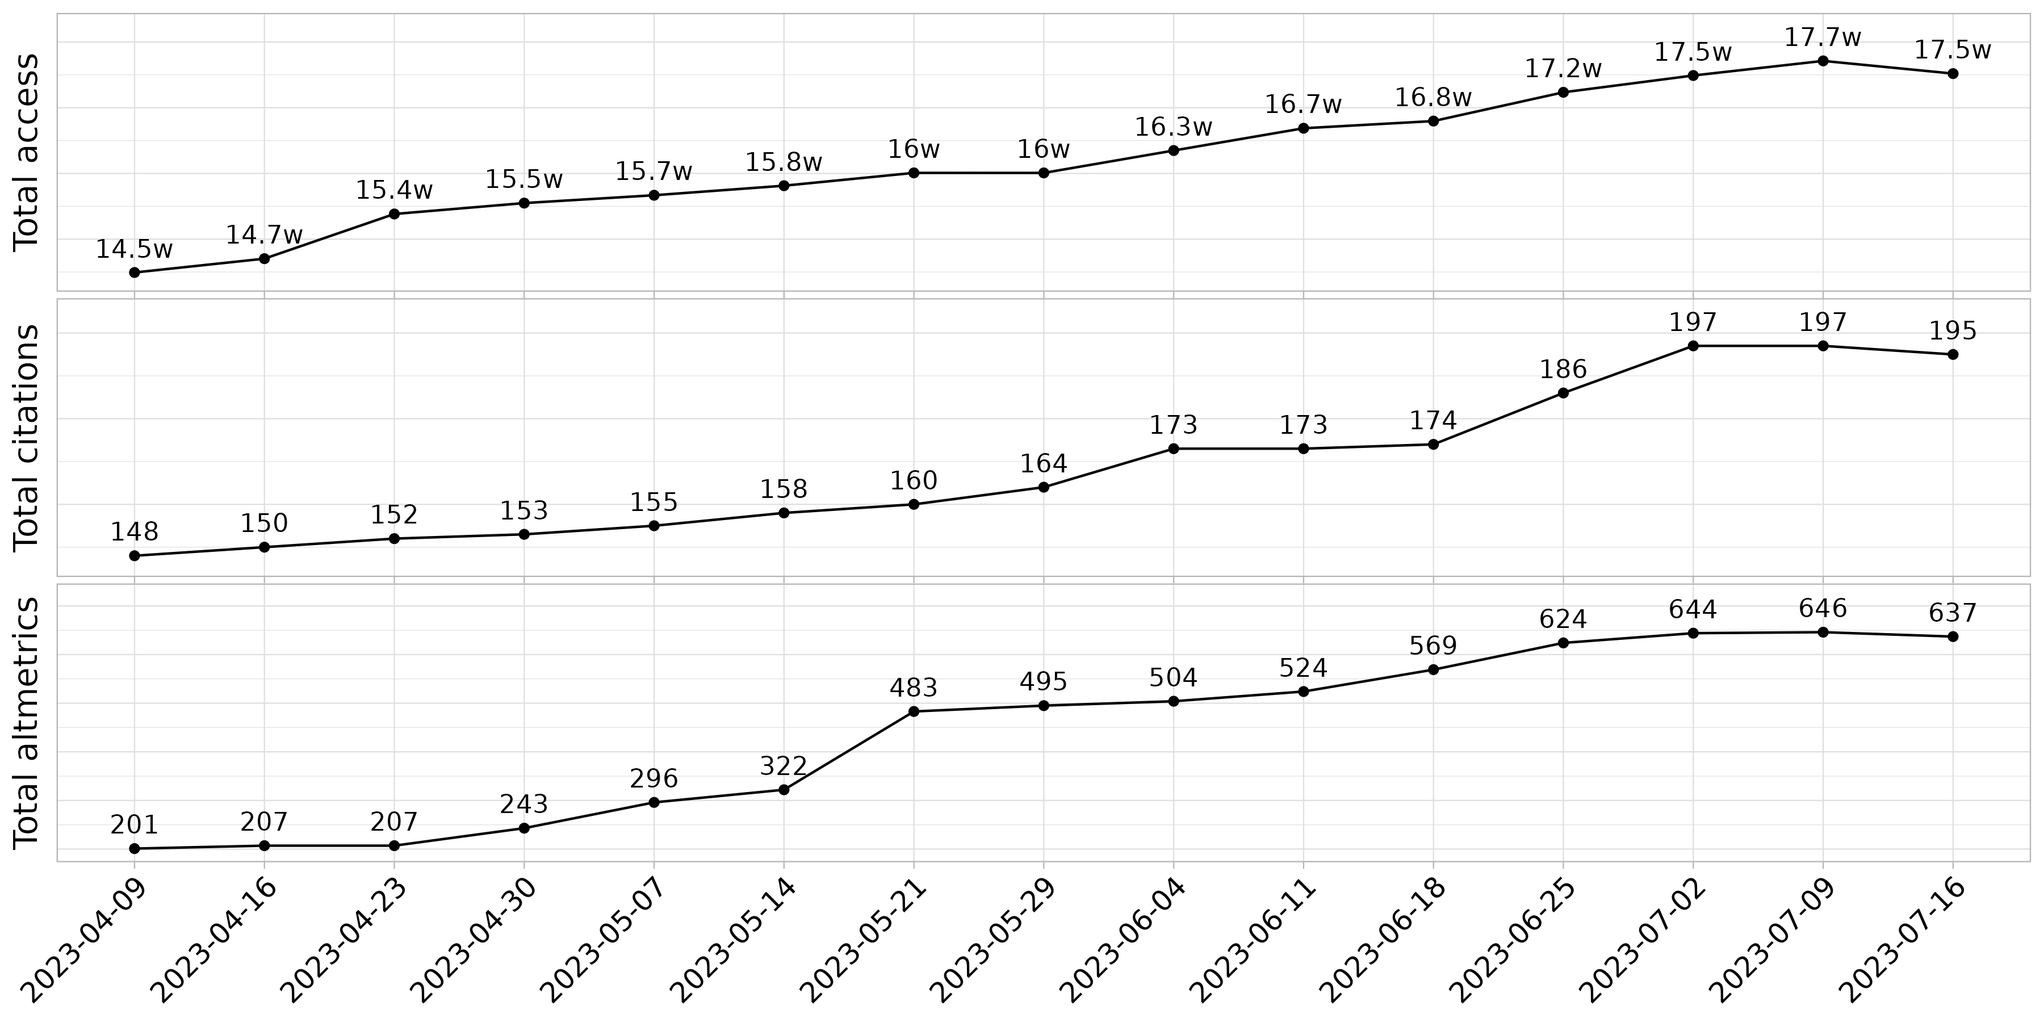
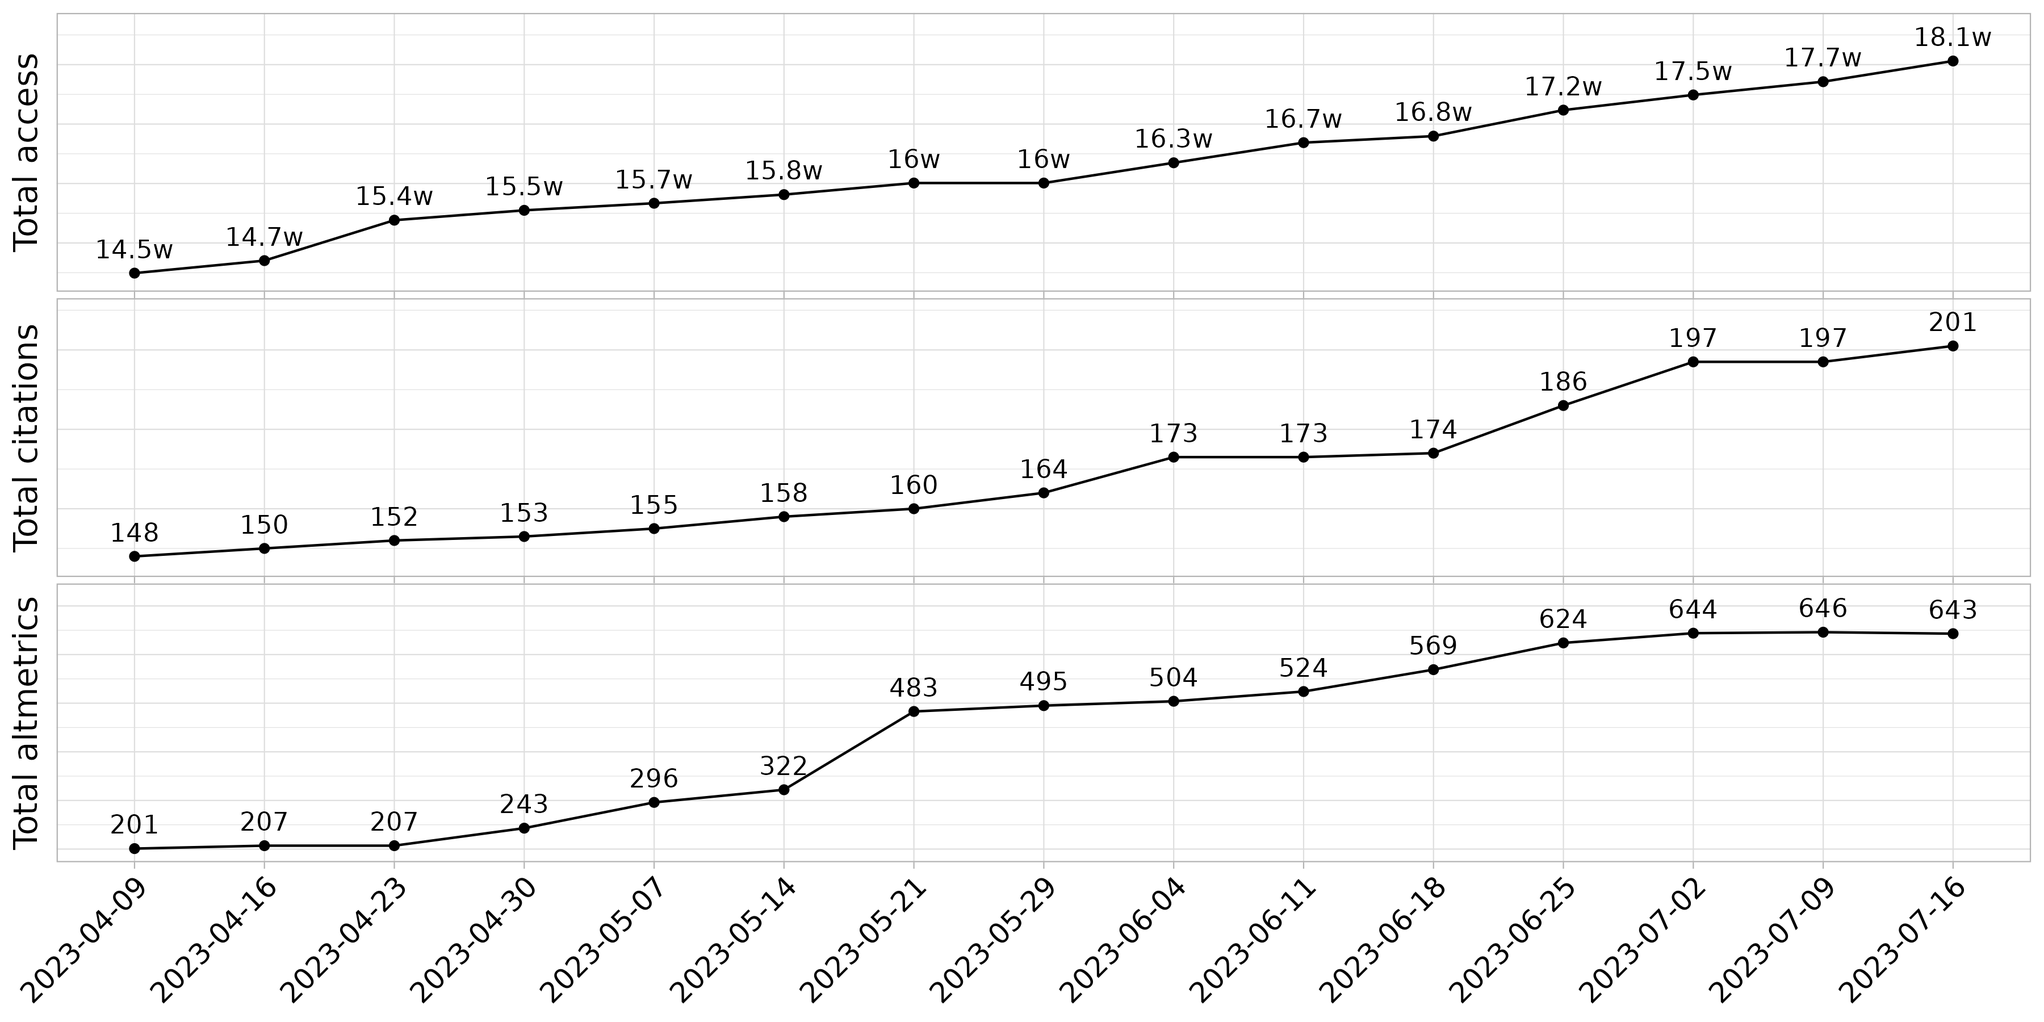
20230716

diff --git a/weekly_online_paper_metrices/README.md b/weekly_online_paper_metrices/README.md
@@ -16,7 +16,7 @@
    <td style="text-align:center;"> <a href="http://link.springer.com/article/10.1007/s43657-022-00048-z" style="     " >A Comprehensive Review of High ...</a> </td>
    <td style="text-align:center;"> Review </td>
    <td style="text-align:center;"> 2022-04-04 </td>
-   <td style="text-align:center;"> 4339 </td>
+   <td style="text-align:center;"> 4346 </td>
    <td style="text-align:center;"> 18 </td>
    <td style="text-align:center;"> 11 </td>
    <td style="text-align:center;"> 2 </td>
@@ -36,7 +36,7 @@
    <td style="text-align:center;"> <a href="http://link.springer.com/article/10.1007/s43657-022-00058-x" style="     " >Clinical Profiles at the Time ...</a> </td>
    <td style="text-align:center;"> Article </td>
    <td style="text-align:center;"> 2022-06-07 </td>
-   <td style="text-align:center;"> 1922 </td>
+   <td style="text-align:center;"> 1930 </td>
    <td style="text-align:center;"> 11 </td>
    <td style="text-align:center;"> 3 </td>
    <td style="text-align:center;"> 2 </td>
@@ -86,11 +86,21 @@
    <td style="text-align:center;"> <a href="http://link.springer.com/article/10.1007/s43657-021-00020-3" style="     " >Molecular Phenomic Approaches to Deconvolving ...</a> </td>
    <td style="text-align:center;"> Review </td>
    <td style="text-align:center;"> 2021-07-22 </td>
-   <td style="text-align:center;"> 3985 </td>
+   <td style="text-align:center;"> 3989 </td>
    <td style="text-align:center;"> 6 </td>
    <td style="text-align:center;"> 38 </td>
    <td style="text-align:center;"> 1 </td>
    <td style="text-align:center;"> 4 </td>
+  </tr>
+  <tr>
+   <td style="text-align:center;"> <a href="http://link.springer.com/article/10.1007/s43657-020-00009-4" style="     " >Welcome to the Phenomics Journal ...</a> </td>
+   <td style="text-align:center;"> Editorial </td>
+   <td style="text-align:center;"> 2021-01-11 </td>
+   <td style="text-align:center;"> 5158 </td>
+   <td style="text-align:center;"> 6 </td>
+   <td style="text-align:center;"> 7 </td>
+   <td style="text-align:center;"> 1 </td>
+   <td style="text-align:center;"> 1 </td>
   </tr>
   <tr>
    <td style="text-align:center;"> <a href="http://link.springer.com/article/10.1007/s43657-021-00036-9" style="     " >Recent Advances in Understanding of ...</a> </td>
@@ -106,7 +116,7 @@
    <td style="text-align:center;"> <a href="http://link.springer.com/article/10.1007/s43657-021-00037-8" style="     " >Why Do We Care More ...</a> </td>
    <td style="text-align:center;"> Commentary </td>
    <td style="text-align:center;"> 2022-01-28 </td>
-   <td style="text-align:center;"> 3090 </td>
+   <td style="text-align:center;"> 3097 </td>
    <td style="text-align:center;"> 5 </td>
    <td style="text-align:center;"> 24 </td>
    <td style="text-align:center;"> 2 </td>
@@ -116,7 +126,7 @@
    <td style="text-align:center;"> <a href="http://link.springer.com/article/10.1007/s43657-021-00032-z" style="     " >Recent Progresses in Electrochemical DNA ...</a> </td>
    <td style="text-align:center;"> Review </td>
    <td style="text-align:center;"> 2022-01-21 </td>
-   <td style="text-align:center;"> 2059 </td>
+   <td style="text-align:center;"> 2060 </td>
    <td style="text-align:center;"> 5 </td>
    <td style="text-align:center;"> 2 </td>
    <td style="text-align:center;"> 2 </td>
@@ -126,7 +136,7 @@
    <td style="text-align:center;"> <a href="http://link.springer.com/article/10.1007/s43657-021-00014-1" style="     " >Genetic Architecture of Childhood Kidney ...</a> </td>
    <td style="text-align:center;"> Article </td>
    <td style="text-align:center;"> 2021-07-15 </td>
-   <td style="text-align:center;"> 2726 </td>
+   <td style="text-align:center;"> 2730 </td>
    <td style="text-align:center;"> 5 </td>
    <td style="text-align:center;"> 1 </td>
    <td style="text-align:center;"> 1 </td>
@@ -166,7 +176,7 @@
    <td style="text-align:center;"> <a href="http://link.springer.com/article/10.1007/s43657-023-00102-4" style="     " >Overview of a Sleep Monitoring ...</a> </td>
    <td style="text-align:center;"> Protocol </td>
    <td style="text-align:center;"> 2023-05-06 </td>
-   <td style="text-align:center;"> 661 </td>
+   <td style="text-align:center;"> 669 </td>
    <td style="text-align:center;"> 3 </td>
    <td style="text-align:center;"> 3 </td>
    <td style="text-align:center;"> NA </td>
@@ -176,7 +186,7 @@
    <td style="text-align:center;"> <a href="http://link.springer.com/article/10.1007/s43657-022-00066-x" style="     " >Human Genetic Variants Associated with ...</a> </td>
    <td style="text-align:center;"> Article </td>
    <td style="text-align:center;"> 2022-08-13 </td>
-   <td style="text-align:center;"> 1911 </td>
+   <td style="text-align:center;"> 1915 </td>
    <td style="text-align:center;"> 3 </td>
    <td style="text-align:center;"> 3 </td>
    <td style="text-align:center;"> 2 </td>
@@ -196,7 +206,7 @@
    <td style="text-align:center;"> <a href="http://link.springer.com/article/10.1007/s43657-021-00043-w" style="     " >Emerging Regulatory Mechanisms of N6-Methyladenosine ...</a> </td>
    <td style="text-align:center;"> Review </td>
    <td style="text-align:center;"> 2022-05-25 </td>
-   <td style="text-align:center;"> 1719 </td>
+   <td style="text-align:center;"> 1721 </td>
    <td style="text-align:center;"> 3 </td>
    <td style="text-align:center;"> 1 </td>
    <td style="text-align:center;"> 3 </td>
@@ -206,7 +216,7 @@
    <td style="text-align:center;"> <a href="http://link.springer.com/article/10.1007/s43657-022-00054-1" style="     " >Biomarkers and Disease Trajectories Influencing ...</a> </td>
    <td style="text-align:center;"> Article </td>
    <td style="text-align:center;"> 2022-05-12 </td>
-   <td style="text-align:center;"> 2768 </td>
+   <td style="text-align:center;"> 2776 </td>
    <td style="text-align:center;"> 3 </td>
    <td style="text-align:center;"> 2 </td>
    <td style="text-align:center;"> 2 </td>
@@ -216,7 +226,7 @@
    <td style="text-align:center;"> <a href="http://link.springer.com/article/10.1007/s43657-021-00041-y" style="     " >Optical Imaging of Epigenetic Modifications ...</a> </td>
    <td style="text-align:center;"> Review </td>
    <td style="text-align:center;"> 2022-02-07 </td>
-   <td style="text-align:center;"> 2031 </td>
+   <td style="text-align:center;"> 2034 </td>
    <td style="text-align:center;"> 3 </td>
    <td style="text-align:center;"> 6 </td>
    <td style="text-align:center;"> 2 </td>
@@ -246,7 +256,7 @@
    <td style="text-align:center;"> <a href="http://link.springer.com/article/10.1007/s43657-021-00016-z" style="     " >Molecular Determinants of Antibiotic Resistance in ...</a> </td>
    <td style="text-align:center;"> Review </td>
    <td style="text-align:center;"> 2021-06-17 </td>
-   <td style="text-align:center;"> 3518 </td>
+   <td style="text-align:center;"> 3523 </td>
    <td style="text-align:center;"> 3 </td>
    <td style="text-align:center;"> 3 </td>
    <td style="text-align:center;"> 1 </td>
@@ -266,7 +276,7 @@
    <td style="text-align:center;"> <a href="http://link.springer.com/article/10.1007/s43657-022-00089-4" style="     " >Phenomic Studies on Diseases: Potential ...</a> </td>
    <td style="text-align:center;"> Review </td>
    <td style="text-align:center;"> 2023-01-05 </td>
-   <td style="text-align:center;"> 1690 </td>
+   <td style="text-align:center;"> 1709 </td>
    <td style="text-align:center;"> 2 </td>
    <td style="text-align:center;"> 3 </td>
    <td style="text-align:center;"> 3 </td>
@@ -396,7 +406,7 @@
    <td style="text-align:center;"> <a href="http://link.springer.com/article/10.1007/s43657-021-00018-x" style="     " >Recommendation for Cardiac Magnetic Resonance ...</a> </td>
    <td style="text-align:center;"> Review </td>
    <td style="text-align:center;"> 2021-07-28 </td>
-   <td style="text-align:center;"> 3706 </td>
+   <td style="text-align:center;"> 3718 </td>
    <td style="text-align:center;"> 2 </td>
    <td style="text-align:center;"> 1 </td>
    <td style="text-align:center;"> 1 </td>
@@ -446,7 +456,7 @@
    <td style="text-align:center;"> <a href="http://link.springer.com/article/10.1007/s43657-022-00065-y" style="     " >Report on the 3rd Board ...</a> </td>
    <td style="text-align:center;"> Meeting Report </td>
    <td style="text-align:center;"> 2022-06-22 </td>
-   <td style="text-align:center;"> 2451 </td>
+   <td style="text-align:center;"> 2460 </td>
    <td style="text-align:center;"> 1 </td>
    <td style="text-align:center;"> 3 </td>
    <td style="text-align:center;"> 3 </td>
@@ -466,7 +476,7 @@
    <td style="text-align:center;"> <a href="http://link.springer.com/article/10.1007/s43657-022-00062-1" style="     " >Identification of Germline Mutations in ...</a> </td>
    <td style="text-align:center;"> Article </td>
    <td style="text-align:center;"> 2022-06-11 </td>
-   <td style="text-align:center;"> 1531 </td>
+   <td style="text-align:center;"> 1532 </td>
    <td style="text-align:center;"> 1 </td>
    <td style="text-align:center;"> 4 </td>
    <td style="text-align:center;"> 3 </td>
@@ -496,7 +506,7 @@
    <td style="text-align:center;"> <a href="http://link.springer.com/article/10.1007/s43657-022-00052-3" style="     " >Causal Effect of Genetically Determined ...</a> </td>
    <td style="text-align:center;"> Article </td>
    <td style="text-align:center;"> 2022-05-07 </td>
-   <td style="text-align:center;"> 1680 </td>
+   <td style="text-align:center;"> 1682 </td>
    <td style="text-align:center;"> 1 </td>
    <td style="text-align:center;"> 2 </td>
    <td style="text-align:center;"> 2 </td>
@@ -506,7 +516,7 @@
    <td style="text-align:center;"> <a href="http://link.springer.com/article/10.1007/s43657-021-00031-0" style="     " >Mapping Cell Phenomics with Multiparametric ...</a> </td>
    <td style="text-align:center;"> Review </td>
    <td style="text-align:center;"> 2022-01-09 </td>
-   <td style="text-align:center;"> 3464 </td>
+   <td style="text-align:center;"> 3468 </td>
    <td style="text-align:center;"> 1 </td>
    <td style="text-align:center;"> 2 </td>
    <td style="text-align:center;"> 2 </td>
@@ -516,7 +526,7 @@
    <td style="text-align:center;"> <a href="http://link.springer.com/article/10.1007/s43657-021-00030-1" style="     " >Beyond Mendelian Inheritance: Genetic Buffering ...</a> </td>
    <td style="text-align:center;"> Review </td>
    <td style="text-align:center;"> 2021-12-27 </td>
-   <td style="text-align:center;"> 3202 </td>
+   <td style="text-align:center;"> 3208 </td>
    <td style="text-align:center;"> 1 </td>
    <td style="text-align:center;"> 1 </td>
    <td style="text-align:center;"> 2 </td>
@@ -536,7 +546,7 @@
    <td style="text-align:center;"> <a href="http://link.springer.com/article/10.1007/s43657-021-00017-y" style="     " >Origin and Spread of the ...</a> </td>
    <td style="text-align:center;"> Review </td>
    <td style="text-align:center;"> 2021-09-20 </td>
-   <td style="text-align:center;"> 2866 </td>
+   <td style="text-align:center;"> 2871 </td>
    <td style="text-align:center;"> 1 </td>
    <td style="text-align:center;"> 3 </td>
    <td style="text-align:center;"> 1 </td>
@@ -596,7 +606,7 @@
    <td style="text-align:center;"> <a href="http://link.springer.com/article/10.1007/s43657-023-00103-3" style="     " >Integrative Identification by Hi-C Revealed ...</a> </td>
    <td style="text-align:center;"> Article </td>
    <td style="text-align:center;"> 2023-06-15 </td>
-   <td style="text-align:center;"> 57 </td>
+   <td style="text-align:center;"> 59 </td>
    <td style="text-align:center;"> 0 </td>
    <td style="text-align:center;"> 5 </td>
    <td style="text-align:center;"> NA </td>
@@ -606,7 +616,7 @@
    <td style="text-align:center;"> <a href="http://link.springer.com/article/10.1007/s43657-023-00101-5" style="     " >Mycobacteriaceae Phenome Atlas (MPA): A ...</a> </td>
    <td style="text-align:center;"> Article </td>
    <td style="text-align:center;"> 2023-06-13 </td>
-   <td style="text-align:center;"> 434 </td>
+   <td style="text-align:center;"> 448 </td>
    <td style="text-align:center;"> 0 </td>
    <td style="text-align:center;"> 5 </td>
    <td style="text-align:center;"> NA </td>
@@ -616,7 +626,7 @@
    <td style="text-align:center;"> <a href="http://link.springer.com/article/10.1007/s43657-023-00109-x" style="     " >De Novo Dissecting the Three-Dimensional ...</a> </td>
    <td style="text-align:center;"> Article </td>
    <td style="text-align:center;"> 2023-06-08 </td>
-   <td style="text-align:center;"> 337 </td>
+   <td style="text-align:center;"> 345 </td>
    <td style="text-align:center;"> 0 </td>
    <td style="text-align:center;"> 1 </td>
    <td style="text-align:center;"> NA </td>
@@ -626,7 +636,7 @@
    <td style="text-align:center;"> <a href="http://link.springer.com/article/10.1007/s43657-023-00105-1" style="     " >Quantitative Assessment of Ultraviolet-Induced Erythema ...</a> </td>
    <td style="text-align:center;"> Article </td>
    <td style="text-align:center;"> 2023-06-05 </td>
-   <td style="text-align:center;"> 345 </td>
+   <td style="text-align:center;"> 349 </td>
    <td style="text-align:center;"> 0 </td>
    <td style="text-align:center;"> 2 </td>
    <td style="text-align:center;"> NA </td>
@@ -656,7 +666,7 @@
    <td style="text-align:center;"> <a href="http://link.springer.com/article/10.1007/s43657-022-00086-7" style="     " >RNA-Sequencing Reveals Gene Expression and ...</a> </td>
    <td style="text-align:center;"> Article </td>
    <td style="text-align:center;"> 2023-04-08 </td>
-   <td style="text-align:center;"> 260 </td>
+   <td style="text-align:center;"> 262 </td>
    <td style="text-align:center;"> 0 </td>
    <td style="text-align:center;"> 66 </td>
    <td style="text-align:center;"> 3 </td>
@@ -666,7 +676,7 @@
    <td style="text-align:center;"> <a href="http://link.springer.com/article/10.1007/s43657-023-00098-x" style="     " >Genetic Phenotypes of Alzheimer’s Disease: ...</a> </td>
    <td style="text-align:center;"> Review </td>
    <td style="text-align:center;"> 2023-04-03 </td>
-   <td style="text-align:center;"> 925 </td>
+   <td style="text-align:center;"> 931 </td>
    <td style="text-align:center;"> 0 </td>
    <td style="text-align:center;"> 7 </td>
    <td style="text-align:center;"> NA </td>
@@ -676,7 +686,7 @@
    <td style="text-align:center;"> <a href="http://link.springer.com/article/10.1007/s43657-023-00100-6" style="     " >Hidden Genetic Regulation of Human ...</a> </td>
    <td style="text-align:center;"> Brief Communication </td>
    <td style="text-align:center;"> 2023-03-20 </td>
-   <td style="text-align:center;"> 1418 </td>
+   <td style="text-align:center;"> 1430 </td>
    <td style="text-align:center;"> 0 </td>
    <td style="text-align:center;"> 7 </td>
    <td style="text-align:center;"> 3 </td>
@@ -686,7 +696,7 @@
    <td style="text-align:center;"> <a href="http://link.springer.com/article/10.1007/s43657-023-00097-y" style="     " >Sample Collection, DNA Extraction, and ...</a> </td>
    <td style="text-align:center;"> Protocol </td>
    <td style="text-align:center;"> 2023-03-08 </td>
-   <td style="text-align:center;"> 632 </td>
+   <td style="text-align:center;"> 634 </td>
    <td style="text-align:center;"> 0 </td>
    <td style="text-align:center;"> 5 </td>
    <td style="text-align:center;"> 3 </td>
@@ -696,7 +706,7 @@
    <td style="text-align:center;"> <a href="http://link.springer.com/article/10.1007/s43657-023-00096-z" style="     " >α2,3-Sialylation with Fucosylation Associated with ...</a> </td>
    <td style="text-align:center;"> Article </td>
    <td style="text-align:center;"> 2023-03-07 </td>
-   <td style="text-align:center;"> 273 </td>
+   <td style="text-align:center;"> 274 </td>
    <td style="text-align:center;"> 0 </td>
    <td style="text-align:center;"> 18 </td>
    <td style="text-align:center;"> NA </td>
@@ -726,7 +736,7 @@
    <td style="text-align:center;"> <a href="http://link.springer.com/article/10.1007/s43657-022-00092-9" style="     " >Deep Immunophenotyping of Human Whole ...</a> </td>
    <td style="text-align:center;"> Protocol </td>
    <td style="text-align:center;"> 2023-02-23 </td>
-   <td style="text-align:center;"> 2267 </td>
+   <td style="text-align:center;"> 2296 </td>
    <td style="text-align:center;"> 0 </td>
    <td style="text-align:center;"> 3 </td>
    <td style="text-align:center;"> 3 </td>
@@ -746,7 +756,7 @@
    <td style="text-align:center;"> <a href="http://link.springer.com/article/10.1007/s43657-022-00093-8" style="     " >Presence of Rare Variants is ...</a> </td>
    <td style="text-align:center;"> Article </td>
    <td style="text-align:center;"> 2023-02-12 </td>
-   <td style="text-align:center;"> 630 </td>
+   <td style="text-align:center;"> 636 </td>
    <td style="text-align:center;"> 0 </td>
    <td style="text-align:center;"> 12 </td>
    <td style="text-align:center;"> 3 </td>
@@ -756,7 +766,7 @@
    <td style="text-align:center;"> <a href="http://link.springer.com/article/10.1007/s43657-022-00087-6" style="     " >Deep Learning-Assisted Quantitative Susceptibility Mapping ...</a> </td>
    <td style="text-align:center;"> Article </td>
    <td style="text-align:center;"> 2023-01-05 </td>
-   <td style="text-align:center;"> 696 </td>
+   <td style="text-align:center;"> 699 </td>
    <td style="text-align:center;"> 0 </td>
    <td style="text-align:center;"> 3 </td>
    <td style="text-align:center;"> 3 </td>
@@ -786,7 +796,7 @@
    <td style="text-align:center;"> <a href="http://link.springer.com/article/10.1007/s43657-022-00082-x" style="     " >A Genome-Wide Association Study for ...</a> </td>
    <td style="text-align:center;"> Article </td>
    <td style="text-align:center;"> 2022-12-05 </td>
-   <td style="text-align:center;"> 884 </td>
+   <td style="text-align:center;"> 891 </td>
    <td style="text-align:center;"> 0 </td>
    <td style="text-align:center;"> 7 </td>
    <td style="text-align:center;"> 3 </td>
@@ -808,7 +818,7 @@
    <td style="text-align:center;"> 2022-11-19 </td>
    <td style="text-align:center;"> 1631 </td>
    <td style="text-align:center;"> 0 </td>
-   <td style="text-align:center;"> 5 </td>
+   <td style="text-align:center;"> 4 </td>
    <td style="text-align:center;"> 3 </td>
    <td style="text-align:center;"> 2 </td>
   </tr>
@@ -836,7 +846,7 @@
    <td style="text-align:center;"> <a href="http://link.springer.com/article/10.1007/s43657-022-00074-x" style="     " >Chinese Medicine Phenomics (Chinmedphenomics): Personalized, ...</a> </td>
    <td style="text-align:center;"> Review </td>
    <td style="text-align:center;"> 2022-10-14 </td>
-   <td style="text-align:center;"> 1924 </td>
+   <td style="text-align:center;"> 1934 </td>
    <td style="text-align:center;"> 0 </td>
    <td style="text-align:center;"> 1 </td>
    <td style="text-align:center;"> 2 </td>
@@ -846,7 +856,7 @@
    <td style="text-align:center;"> <a href="http://link.springer.com/article/10.1007/s43657-022-00072-z" style="     " >Causal Association of Cardiac Function ...</a> </td>
    <td style="text-align:center;"> Article </td>
    <td style="text-align:center;"> 2022-09-29 </td>
-   <td style="text-align:center;"> 1491 </td>
+   <td style="text-align:center;"> 1497 </td>
    <td style="text-align:center;"> 0 </td>
    <td style="text-align:center;"> 5 </td>
    <td style="text-align:center;"> 2 </td>
@@ -856,7 +866,7 @@
    <td style="text-align:center;"> <a href="http://link.springer.com/article/10.1007/s43657-022-00068-9" style="     " >International Nuclear Medicine Consensus on ...</a> </td>
    <td style="text-align:center;"> Article </td>
    <td style="text-align:center;"> 2022-08-26 </td>
-   <td style="text-align:center;"> 2226 </td>
+   <td style="text-align:center;"> 2234 </td>
    <td style="text-align:center;"> 0 </td>
    <td style="text-align:center;"> 3 </td>
    <td style="text-align:center;"> NA </td>
@@ -896,7 +906,7 @@
    <td style="text-align:center;"> <a href="http://link.springer.com/article/10.1007/s43657-022-00057-y" style="     " >Plasma Lipidomic Subclasses and Risk ...</a> </td>
    <td style="text-align:center;"> Article </td>
    <td style="text-align:center;"> 2022-06-14 </td>
-   <td style="text-align:center;"> 1572 </td>
+   <td style="text-align:center;"> 1575 </td>
    <td style="text-align:center;"> 0 </td>
    <td style="text-align:center;"> 1 </td>
    <td style="text-align:center;"> 2 </td>
@@ -906,7 +916,7 @@
    <td style="text-align:center;"> <a href="http://link.springer.com/article/10.1007/s43657-022-00056-z" style="     " >A Hashing-Based Framework for Enhancing ...</a> </td>
    <td style="text-align:center;"> Article </td>
    <td style="text-align:center;"> 2022-05-19 </td>
-   <td style="text-align:center;"> 1285 </td>
+   <td style="text-align:center;"> 1286 </td>
    <td style="text-align:center;"> 0 </td>
    <td style="text-align:center;"> 7 </td>
    <td style="text-align:center;"> 2 </td>
@@ -990,16 +1000,6 @@
    <td style="text-align:center;"> 0 </td>
    <td style="text-align:center;"> 3 </td>
    <td style="text-align:center;"> 2 </td>
-   <td style="text-align:center;"> 1 </td>
-  </tr>
-  <tr>
-   <td style="text-align:center;"> <a href="http://link.springer.com/article/10.1007/s43657-020-00009-4" style="     " >Welcome to the Phenomics Journal ...</a> </td>
-   <td style="text-align:center;"> Editorial </td>
-   <td style="text-align:center;"> 2021-01-11 </td>
-   <td style="text-align:center;"> 0 </td>
-   <td style="text-align:center;"> 0 </td>
-   <td style="text-align:center;"> 0 </td>
-   <td style="text-align:center;"> 1 </td>
    <td style="text-align:center;"> 1 </td>
   </tr>
 </tbody>
